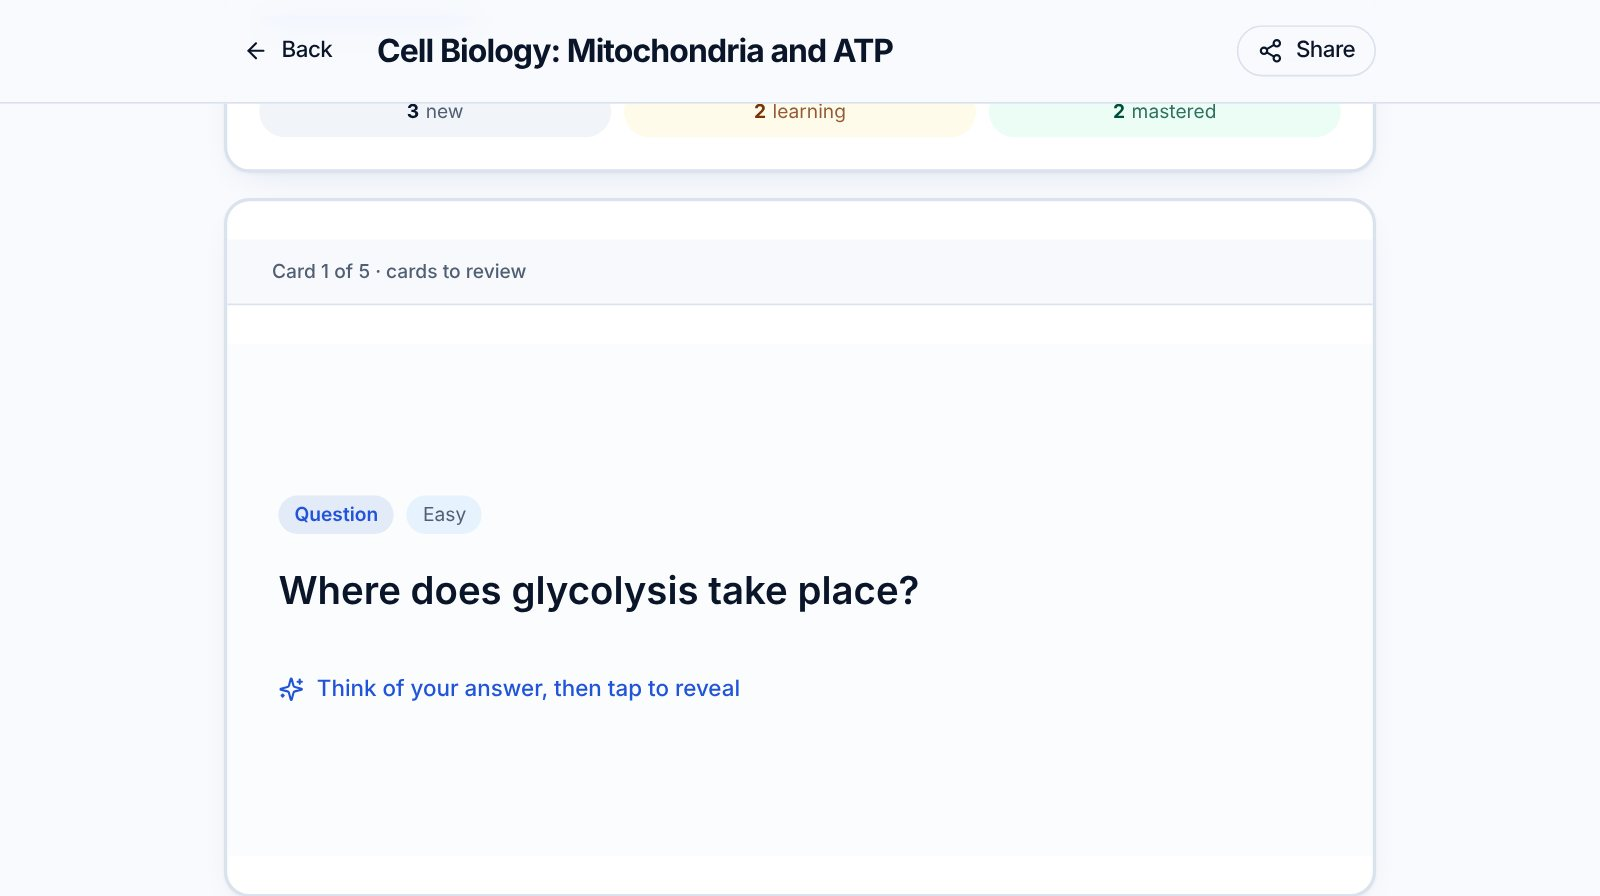
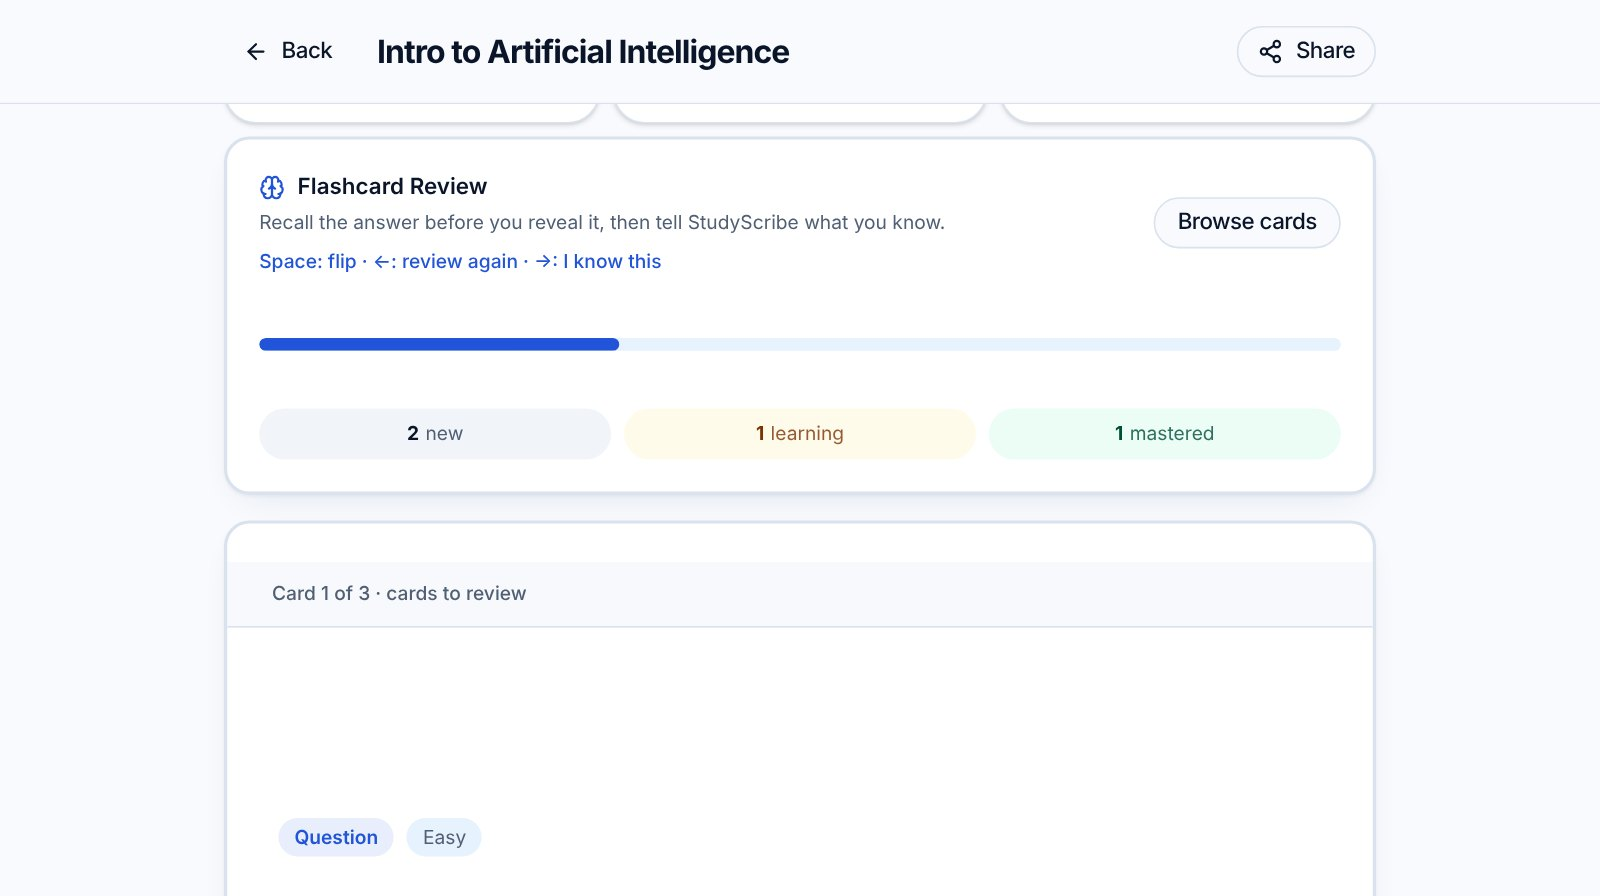
Retake landing screenshots; readable feature tiles
- scripts/landing/capture.mjs retakes every landing image from the seeded
  demo library, so the hero no longer shows the old red Delete buttons.
- Feature tiles use crops of just the card, taken at phone width, instead
  of whole pages shrunk to tile size. Tiles crop from the top-left, and
  on phones keep a fixed height so the transcript zooms in rather than
  shrinking to unreadable.
- The transcript frame searches 'entropy', as the old one did.
- Drops three full frames nothing uses any more.

Claude-Session: https://claude.ai/code/session_01YHRXnZHvwR3tg67sdDVazX

diff --git a/client/src/components/landing/FeatureBento.tsx b/client/src/components/landing/FeatureBento.tsx
@@ -1,11 +1,13 @@
-type Cell = { title: string; text: string; image: string; alt: string; className: string; tone: "plain" | "blue" | "mist" };
+// Small tiles use "-focus" crops (just the card, taken at phone width by scripts/landing/capture.mjs);
+// a whole page shrunk to tile size is unreadable.
+type Cell = { title: string; text: string; image: string; size: [number, number]; alt: string; className: string; tone: "plain" | "blue" | "mist" };
 
 const CELLS: Cell[] = [
-  { title: "Transcripts you can navigate", text: "Speaker labels and timestamps, so a long lecture is never one unreadable block.", image: "/landing/transcript.jpg", alt: "Transcript view", className: "md:col-span-4 md:row-span-2", tone: "plain" },
-  { title: "Flashcards, made for you", text: "Export to Quizlet, Anki or Notion.", image: "/landing/flashcards.jpg", alt: "Flashcard deck", className: "md:col-span-2", tone: "blue" },
-  { title: "Practice quizzes", text: "Ten questions with instant scoring and explanations.", image: "/landing/quiz.jpg", alt: "Practice quiz", className: "md:col-span-2", tone: "mist" },
-  { title: "An AI tutor that knows your lecture", text: "Ask questions and get answers grounded in what was actually said.", image: "/landing/ai-tutor.jpg", alt: "AI tutor chat", className: "md:col-span-3", tone: "plain" },
-  { title: "Study guides and email drafts", text: "A structured guide for exams, or a clean summary email for your team.", image: "/landing/study-guide.jpg", alt: "Study guide", className: "md:col-span-3", tone: "mist" },
+  { title: "Transcripts you can navigate", text: "Speaker labels and timestamps, so a long lecture is never one unreadable block.", image: "/landing/transcript.jpg", size: [1600, 896], alt: "Transcript view", className: "md:col-span-4 md:row-span-2", tone: "plain" },
+  { title: "Flashcards, made for you", text: "Export to Quizlet, Anki or Notion.", image: "/landing/flashcards-focus.jpg", size: [992, 826], alt: "A flashcard asking what AI stands for", className: "md:col-span-2", tone: "blue" },
+  { title: "Practice quizzes", text: "Ten questions with instant scoring and explanations.", image: "/landing/quiz-focus.jpg", size: [992, 866], alt: "A multiple-choice quiz question about the causes of World War I", className: "md:col-span-2", tone: "mist" },
+  { title: "An AI tutor that knows your lecture", text: "Ask questions and get answers grounded in what was actually said.", image: "/landing/ai-tutor-focus.jpg", size: [992, 1448], alt: "The AI tutor answering questions about a psychology lecture", className: "md:col-span-3", tone: "plain" },
+  { title: "Study guides and email drafts", text: "A structured guide for exams, or a clean summary email for your team.", image: "/landing/study-guide-focus.jpg", size: [892, 1436], alt: "A study guide comparing SN1 and SN2 reactions in a table", className: "md:col-span-3", tone: "mist" },
 ];
 
 const TONES = {
@@ -27,8 +29,8 @@ export default function FeatureBento() {
             >
               <h3 className="text-2xl font-bold tracking-[-0.03em] sm:text-3xl">{cell.title}</h3>
               <p className={`mt-3 max-w-sm text-base leading-snug ${cell.tone === "blue" ? "text-primary-foreground/90" : "text-muted-foreground"}`}>{cell.text}</p>
-              <div className="mt-8 flex-1 overflow-hidden rounded-lg border border-border/60 bg-card">
-                <img src={cell.image} alt={cell.alt} width={1600} height={896} loading="lazy" className="h-full w-full object-cover object-top" />
+              <div className="mt-8 flex-1 overflow-hidden rounded-lg border border-border/60 bg-card max-md:h-72 max-md:flex-none">
+                <img src={cell.image} alt={cell.alt} width={cell.size[0]} height={cell.size[1]} loading="lazy" className="h-full w-full object-cover object-left-top" />
               </div>
             </article>
           ))}

diff --git a/CLAUDE.md b/CLAUDE.md
@@ -153,7 +153,7 @@ Migration 0022 has to be applied by hand. Before it is, `server/schemaTolerance.
 
 ### Frontend
 
-Vite + React 19, routed with `wouter` (not react-router) in `client/src/App.tsx`, where page components are `React.lazy` code-split — add new pages the same way. `ProtectedRoute` wraps authenticated pages and reads auth state from `useCustomAuth` (`client/src/_core/hooks/useCustomAuth.ts`), which talks to the custom REST session endpoints, not tRPC, for the initial auth check. Data fetching for everything else goes through the tRPC client + TanStack Query. Pages typically call `client.recordings.list.useQuery()` or `client.recordings.create.useMutation()` to fetch or mutate data. Mutations trigger refetches via `queryKey` invalidation (e.g., after creating a flashcard, the flashcards list query is invalidated). The tRPC client instance is wrapped in a QueryClientProvider at the app root. UI components are shadcn/ui (`client/src/components/ui`) on Tailwind v4. The web app is light-only: `ThemeProvider` in `App.tsx` is not `switchable` and `defaultTheme` is `light`, so `.dark` tokens in `index.css` exist but are never applied (the mobile app follows the system theme). There is no landing-screenshot script; `client/public/landing/*.jpg` were taken by hand from the seeded demo library (see the demo video section for seeding). Path aliases (`@` → `client/src`, `@shared` → `shared/`) are defined in both `vite.config.ts` and `tsconfig.json` — keep them in sync if either changes; `vitest.config.ts` also duplicates them for tests.
+Vite + React 19, routed with `wouter` (not react-router) in `client/src/App.tsx`, where page components are `React.lazy` code-split — add new pages the same way. `ProtectedRoute` wraps authenticated pages and reads auth state from `useCustomAuth` (`client/src/_core/hooks/useCustomAuth.ts`), which talks to the custom REST session endpoints, not tRPC, for the initial auth check. Data fetching for everything else goes through the tRPC client + TanStack Query. Pages typically call `client.recordings.list.useQuery()` or `client.recordings.create.useMutation()` to fetch or mutate data. Mutations trigger refetches via `queryKey` invalidation (e.g., after creating a flashcard, the flashcards list query is invalidated). The tRPC client instance is wrapped in a QueryClientProvider at the app root. UI components are shadcn/ui (`client/src/components/ui`) on Tailwind v4. The web app is light-only: `ThemeProvider` in `App.tsx` is not `switchable` and `defaultTheme` is `light`, so `.dark` tokens in `index.css` exist but are never applied (the mobile app follows the system theme). Landing screenshots in `client/public/landing/` come from `scripts/landing/capture.mjs` (run the app against a local database seeded with `scripts/demo-video/v2/seed-library.mjs`; it needs `playwright-core` and `CHROMIUM_PATH` on Linux): `<name>.jpg` are 1600x896 frames of a 1000px window for the hero, How it works and Use cases, and `<name>-focus.jpg` are single cards taken at phone width for the small feature tiles, where a whole page would be unreadable. Path aliases (`@` → `client/src`, `@shared` → `shared/`) are defined in both `vite.config.ts` and `tsconfig.json` — keep them in sync if either changes; `vitest.config.ts` also duplicates them for tests.
 
 The `/demo` page plays `client/public/demo/studyscribe-demo.mp4` when present and otherwise falls back to a slideshow of `client/public/demo/*.jpg` (`DemoWalkthrough.tsx`). The video (1080p, narrated with an ElevenLabs premade voice, currently "Liam"; `voice_id` lives in `v2/storyboard.json`, and library/professional voices return 402/403 on a free plan) is a motion-graphics piece built from live screenshots of the app in `scripts/demo-video/frames/` (2800x1568). To retake them: run the app against a **local** database, seed the demo library with `DATABASE_URL=mysql://…@127.0.0.1/… node scripts/demo-video/v2/seed-library.mjs` (fourteen lectures and meetings across subjects, one transcribed in Spanish, with notes, flashcards and review history, quizzes, a guide, an email draft and a tutor chat; it refuses non-local databases because it rewrites the demo user's data), then `node scripts/demo-video/v2/capture.mjs [baseUrl]`. Capture logs in as the demo user, finds recordings by title, saves every frame and writes `v2/rects.js`: each highlight and click target measured from the live page (`boundingBox`) in the 1600x896 space scenes draw screenshots in, so `scenes.js` never holds hand-measured coordinates. Some narration names seeded content ("What does AI stand for?", the 40-second reading, the 7-minute class, the 52-minute cell biology lecture, the ten-question quiz), so keep `seed-library.mjs` and `storyboard.json` in step. Callouts, highlights and clicks are timed to the narration through word timestamps from ElevenLabs. Generated narration is cached per scene in `v2/assets/narration/<id>.{mp3,json}` and only regenerated when a scene's text changes, so visuals can change freely without a key; without `ELEVENLABS_API_KEY` a changed line gets a draft system voice (macOS `say`, layout checks only). Scene visuals are timed to the narration (hook and brand text appear on the spoken words), and the look is Apple-style type and spacing on the StudyScribe blues (keep the palette). Source is `scripts/demo-video/v2/`: `storyboard.json` holds the narration and timing, `build_audio.py <workdir>` renders the voiceover, music and sound effects and writes `timeline.json` (afconvert on macOS, ffmpeg elsewhere), `index.html` + `scenes.js` define every scene as a function of time, and `render.mjs <workdir> <out.mp4>` steps through it frame by frame in headless Chrome (`npm install` inside `v2/` first; set `CHROMIUM_PATH` on Linux) and muxes the audio. Re-encode the result to `yuv420p` (`-vf scale=in_range=pc:out_range=tv,format=yuv420p`) and write it to `client/public/demo/studyscribe-demo.mp4` with `-movflags +faststart`, then refresh `client/public/demo/poster.jpg` from a frame of it. Render stills first with `--stills t1,t2` to check a change. The older Swift pipeline (`build.py`, `make-demo-video.swift`, `storyboard.json` at the folder root) is superseded.
 
